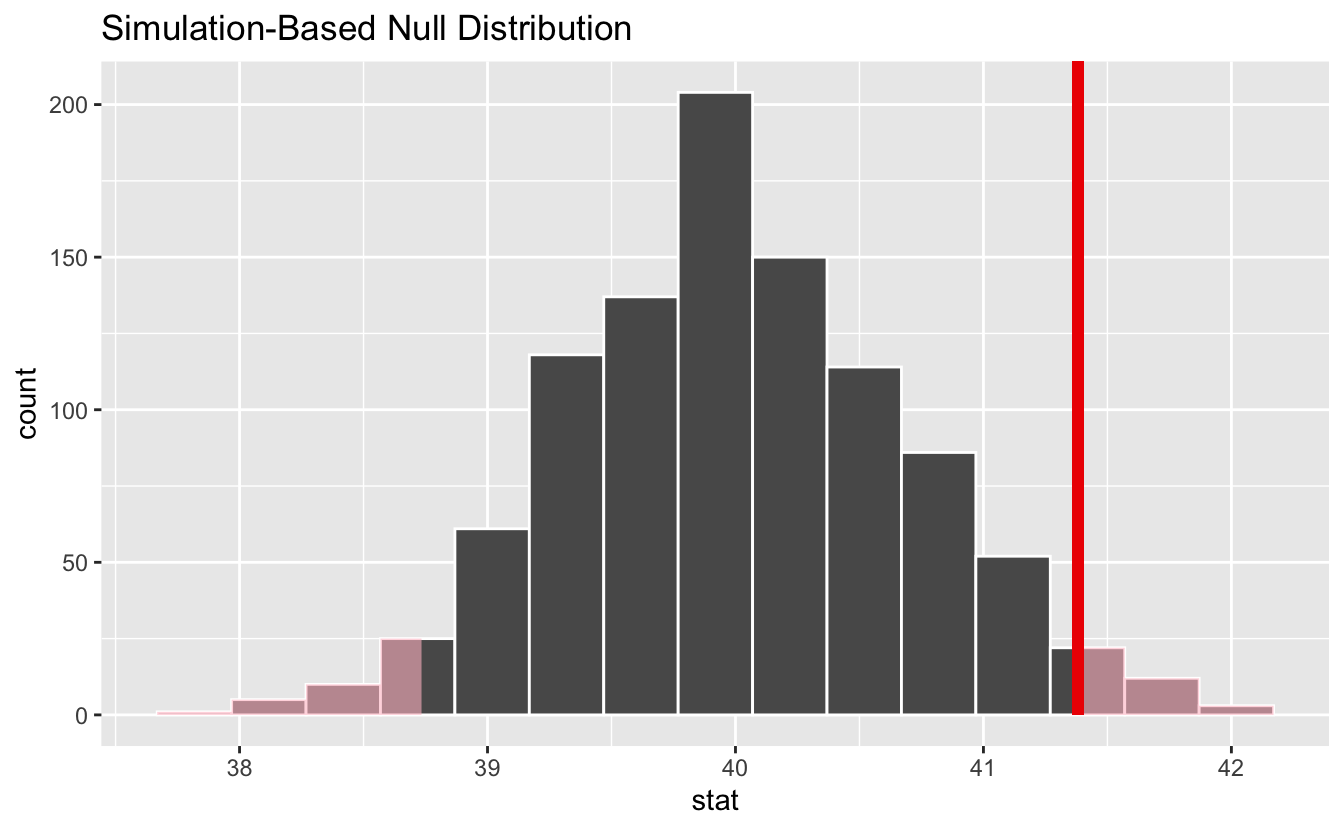
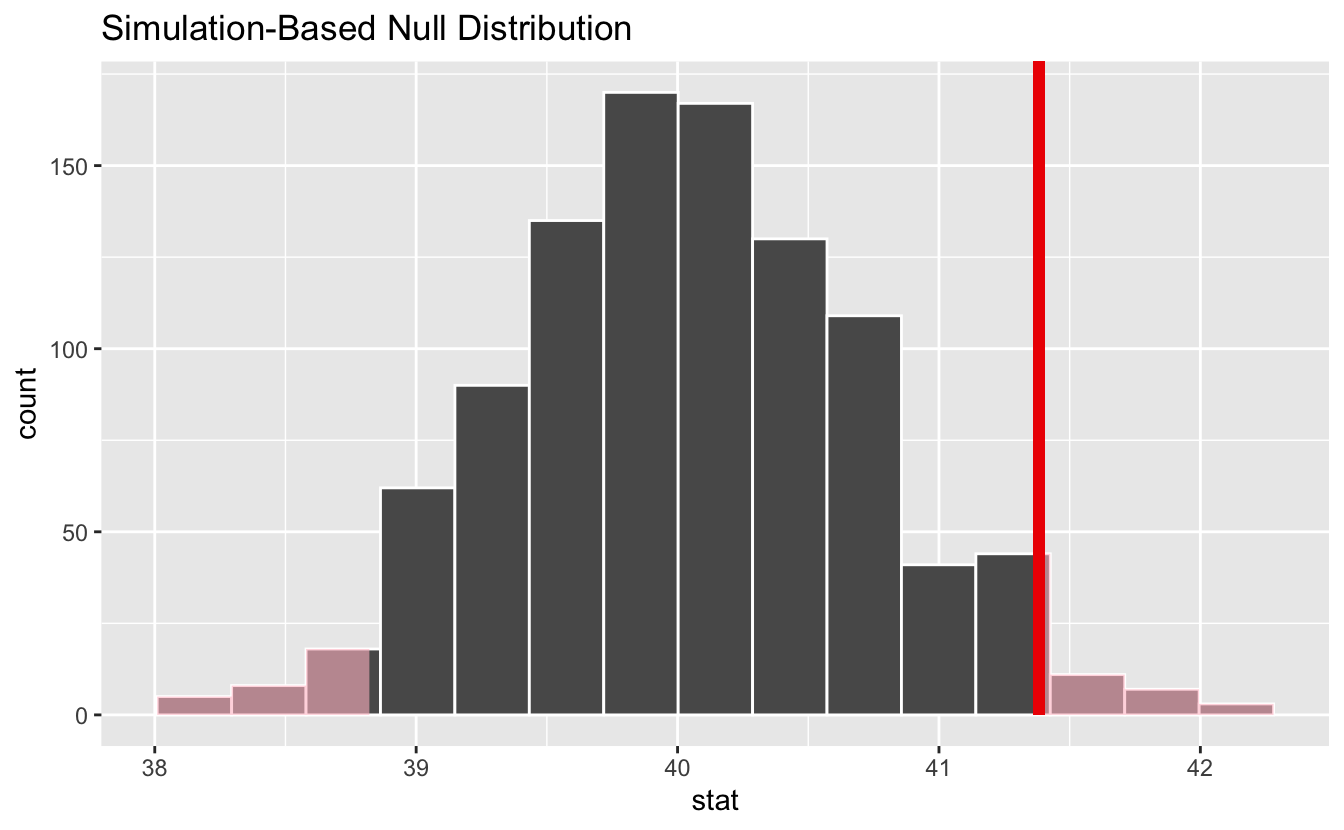
bump date

diff --git a/content/blog/infer-1-0-0/index.md b/content/blog/infer-1-0-0/index.md
@@ -3,7 +3,7 @@ output: hugodown::hugo_document
 
 slug: infer-1-0-0
 title: infer 1.0.0
-date: 2021-07-19
+date: 2021-08-16
 author: Simon Couch
 description: >
     The first major release of infer, a package implementing a unified approach
@@ -15,7 +15,7 @@ photo:
 
 categories: [package] 
 tags: [tidymodels]
-rmd_hash: 0d6c02d7dff397f9
+rmd_hash: 0bc7ed31174026a7
 
 ---
 
@@ -282,16 +282,16 @@ Continuing on with our example above, about the average number of hours worked a
 <span class='c'>#&gt; <span style='color: #555555;'># Groups:   replicate [1,000]</span></span>
 <span class='c'>#&gt;    replicate hours</span>
 <span class='c'>#&gt;        <span style='color: #555555; font-style: italic;'>&lt;int&gt;</span> <span style='color: #555555; font-style: italic;'>&lt;dbl&gt;</span></span>
-<span class='c'>#&gt; <span style='color: #555555;'> 1</span>         1 42.6 </span>
-<span class='c'>#&gt; <span style='color: #555555;'> 2</span>         1 38.6 </span>
-<span class='c'>#&gt; <span style='color: #555555;'> 3</span>         1 26.6 </span>
-<span class='c'>#&gt; <span style='color: #555555;'> 4</span>         1 38.6 </span>
+<span class='c'>#&gt; <span style='color: #555555;'> 1</span>         1 48.6 </span>
+<span class='c'>#&gt; <span style='color: #555555;'> 2</span>         1 28.6 </span>
+<span class='c'>#&gt; <span style='color: #555555;'> 3</span>         1 18.6 </span>
+<span class='c'>#&gt; <span style='color: #555555;'> 4</span>         1 30.6 </span>
 <span class='c'>#&gt; <span style='color: #555555;'> 5</span>         1 38.6 </span>
-<span class='c'>#&gt; <span style='color: #555555;'> 6</span>         1  8.62</span>
-<span class='c'>#&gt; <span style='color: #555555;'> 7</span>         1 48.6 </span>
-<span class='c'>#&gt; <span style='color: #555555;'> 8</span>         1 46.6 </span>
-<span class='c'>#&gt; <span style='color: #555555;'> 9</span>         1 36.6 </span>
-<span class='c'>#&gt; <span style='color: #555555;'>10</span>         1 38.6 </span>
+<span class='c'>#&gt; <span style='color: #555555;'> 6</span>         1 16.6 </span>
+<span class='c'>#&gt; <span style='color: #555555;'> 7</span>         1 18.6 </span>
+<span class='c'>#&gt; <span style='color: #555555;'> 8</span>         1 20.6 </span>
+<span class='c'>#&gt; <span style='color: #555555;'> 9</span>         1  2.62</span>
+<span class='c'>#&gt; <span style='color: #555555;'>10</span>         1 28.6 </span>
 <span class='c'>#&gt; <span style='color: #555555;'># … with 499,990 more rows</span></span></code></pre>
 
 </div>
@@ -313,16 +313,16 @@ To generate a null distribution for the independence of two variables, we could 
 <span class='c'>#&gt; <span style='color: #555555;'># Groups:   replicate [1,000]</span></span>
 <span class='c'>#&gt;    partyid   age replicate</span>
 <span class='c'>#&gt;    <span style='color: #555555; font-style: italic;'>&lt;fct&gt;</span>   <span style='color: #555555; font-style: italic;'>&lt;dbl&gt;</span>     <span style='color: #555555; font-style: italic;'>&lt;int&gt;</span></span>
-<span class='c'>#&gt; <span style='color: #555555;'> 1</span> dem        36         1</span>
-<span class='c'>#&gt; <span style='color: #555555;'> 2</span> rep        34         1</span>
+<span class='c'>#&gt; <span style='color: #555555;'> 1</span> ind        36         1</span>
+<span class='c'>#&gt; <span style='color: #555555;'> 2</span> dem        34         1</span>
 <span class='c'>#&gt; <span style='color: #555555;'> 3</span> dem        24         1</span>
-<span class='c'>#&gt; <span style='color: #555555;'> 4</span> ind        42         1</span>
-<span class='c'>#&gt; <span style='color: #555555;'> 5</span> ind        31         1</span>
-<span class='c'>#&gt; <span style='color: #555555;'> 6</span> rep        32         1</span>
-<span class='c'>#&gt; <span style='color: #555555;'> 7</span> ind        48         1</span>
-<span class='c'>#&gt; <span style='color: #555555;'> 8</span> other      36         1</span>
-<span class='c'>#&gt; <span style='color: #555555;'> 9</span> dem        30         1</span>
-<span class='c'>#&gt; <span style='color: #555555;'>10</span> dem        33         1</span>
+<span class='c'>#&gt; <span style='color: #555555;'> 4</span> rep        42         1</span>
+<span class='c'>#&gt; <span style='color: #555555;'> 5</span> dem        31         1</span>
+<span class='c'>#&gt; <span style='color: #555555;'> 6</span> dem        32         1</span>
+<span class='c'>#&gt; <span style='color: #555555;'> 7</span> dem        48         1</span>
+<span class='c'>#&gt; <span style='color: #555555;'> 8</span> dem        36         1</span>
+<span class='c'>#&gt; <span style='color: #555555;'> 9</span> ind        30         1</span>
+<span class='c'>#&gt; <span style='color: #555555;'>10</span> ind        33         1</span>
 <span class='c'>#&gt; <span style='color: #555555;'># … with 499,990 more rows</span></span></code></pre>
 
 </div>
@@ -343,16 +343,16 @@ To generate a null distribution for the independence of two variables, we could 
 <span class='c'>#&gt; <span style='color: #555555;'># A tibble: 1,000 × 2</span></span>
 <span class='c'>#&gt;    replicate  stat</span>
 <span class='c'>#&gt;        <span style='color: #555555; font-style: italic;'>&lt;int&gt;</span> <span style='color: #555555; font-style: italic;'>&lt;dbl&gt;</span></span>
-<span class='c'>#&gt; <span style='color: #555555;'> 1</span>         1  39.2</span>
-<span class='c'>#&gt; <span style='color: #555555;'> 2</span>         2  40.0</span>
-<span class='c'>#&gt; <span style='color: #555555;'> 3</span>         3  39.9</span>
-<span class='c'>#&gt; <span style='color: #555555;'> 4</span>         4  40.4</span>
-<span class='c'>#&gt; <span style='color: #555555;'> 5</span>         5  40.0</span>
-<span class='c'>#&gt; <span style='color: #555555;'> 6</span>         6  39.6</span>
-<span class='c'>#&gt; <span style='color: #555555;'> 7</span>         7  39.4</span>
-<span class='c'>#&gt; <span style='color: #555555;'> 8</span>         8  39.8</span>
-<span class='c'>#&gt; <span style='color: #555555;'> 9</span>         9  41.2</span>
-<span class='c'>#&gt; <span style='color: #555555;'>10</span>        10  39.5</span>
+<span class='c'>#&gt; <span style='color: #555555;'> 1</span>         1  39.5</span>
+<span class='c'>#&gt; <span style='color: #555555;'> 2</span>         2  40.1</span>
+<span class='c'>#&gt; <span style='color: #555555;'> 3</span>         3  39.6</span>
+<span class='c'>#&gt; <span style='color: #555555;'> 4</span>         4  39.2</span>
+<span class='c'>#&gt; <span style='color: #555555;'> 5</span>         5  39.0</span>
+<span class='c'>#&gt; <span style='color: #555555;'> 6</span>         6  39.8</span>
+<span class='c'>#&gt; <span style='color: #555555;'> 7</span>         7  40.4</span>
+<span class='c'>#&gt; <span style='color: #555555;'> 8</span>         8  40.1</span>
+<span class='c'>#&gt; <span style='color: #555555;'> 9</span>         9  40.3</span>
+<span class='c'>#&gt; <span style='color: #555555;'>10</span>        10  40.5</span>
 <span class='c'>#&gt; <span style='color: #555555;'># … with 990 more rows</span></span></code></pre>
 
 </div>
@@ -430,11 +430,11 @@ Notice that infer has also shaded the regions of the null distribution that are 
 <span class='c'>#&gt; <span style='color: #555555;'># A tibble: 1 × 1</span></span>
 <span class='c'>#&gt;   p_value</span>
 <span class='c'>#&gt;     <span style='color: #555555; font-style: italic;'>&lt;dbl&gt;</span></span>
-<span class='c'>#&gt; <span style='color: #555555;'>1</span>   0.056</span></code></pre>
+<span class='c'>#&gt; <span style='color: #555555;'>1</span>   0.052</span></code></pre>
 
 </div>
 
-It looks like the p-value is 0.056, which is pretty small---if the true mean number of hours worked per week was actually 40, the probability of our sample mean being this far (1.382 hours) from 40 would be 0.056. This may or may not be statistically significantly different, depending on the significance level $\alpha$ you decided on *before* you ran this analysis. If you had set $\alpha = 0.05$, then this difference would be statistically significant, but if you had set $\alpha = 0.01$, then it would not be.
+It looks like the p-value is 0.052, which is pretty small---if the true mean number of hours worked per week was actually 40, the probability of our sample mean being this far (1.382 hours) from 40 would be 0.052. This may or may not be statistically significantly different, depending on the significance level $\alpha$ you decided on *before* you ran this analysis. If you had set $\alpha = 0.05$, then this difference would be statistically significant, but if you had set $\alpha = 0.01$, then it would not be.
 
 To get a confidence interval around our estimate, we can write:
 
@@ -449,7 +449,7 @@ To get a confidence interval around our estimate, we can write:
 <span class='c'>#&gt; <span style='color: #555555;'># A tibble: 1 × 2</span></span>
 <span class='c'>#&gt;   lower_ci upper_ci</span>
 <span class='c'>#&gt;      <span style='color: #555555; font-style: italic;'>&lt;dbl&gt;</span>    <span style='color: #555555; font-style: italic;'>&lt;dbl&gt;</span></span>
-<span class='c'>#&gt; <span style='color: #555555;'>1</span>     40.0     42.7</span></code></pre>
+<span class='c'>#&gt; <span style='color: #555555;'>1</span>     40.1     42.7</span></code></pre>
 
 </div>
 
@@ -498,16 +498,16 @@ If passed a [`generate()`](https://infer.tidymodels.org/reference/generate.html)
 <span class='c'>#&gt; <span style='color: #555555;'># Groups:   replicate [100]</span></span>
 <span class='c'>#&gt;    replicate term          estimate</span>
 <span class='c'>#&gt;        <span style='color: #555555; font-style: italic;'>&lt;int&gt;</span> <span style='color: #555555; font-style: italic;'>&lt;chr&gt;</span>            <span style='color: #555555; font-style: italic;'>&lt;dbl&gt;</span></span>
-<span class='c'>#&gt; <span style='color: #555555;'> 1</span>         1 intercept      40.6   </span>
-<span class='c'>#&gt; <span style='color: #555555;'> 2</span>         1 age             0.027<span style='text-decoration: underline;'>2</span></span>
-<span class='c'>#&gt; <span style='color: #555555;'> 3</span>         1 collegedegree  -<span style='color: #BB0000;'>0.999</span> </span>
-<span class='c'>#&gt; <span style='color: #555555;'> 4</span>         2 intercept      38.5   </span>
-<span class='c'>#&gt; <span style='color: #555555;'> 5</span>         2 age             0.063<span style='text-decoration: underline;'>9</span></span>
-<span class='c'>#&gt; <span style='color: #555555;'> 6</span>         2 collegedegree   0.888 </span>
-<span class='c'>#&gt; <span style='color: #555555;'> 7</span>         3 intercept      39.6   </span>
-<span class='c'>#&gt; <span style='color: #555555;'> 8</span>         3 age             0.027<span style='text-decoration: underline;'>7</span></span>
-<span class='c'>#&gt; <span style='color: #555555;'> 9</span>         3 collegedegree   1.91  </span>
-<span class='c'>#&gt; <span style='color: #555555;'>10</span>         4 intercept      41.9   </span>
+<span class='c'>#&gt; <span style='color: #555555;'> 1</span>         1 intercept     39.7    </span>
+<span class='c'>#&gt; <span style='color: #555555;'> 2</span>         1 age            0.046<span style='text-decoration: underline;'>8</span> </span>
+<span class='c'>#&gt; <span style='color: #555555;'> 3</span>         1 collegedegree -<span style='color: #BB0000;'>0.480</span>  </span>
+<span class='c'>#&gt; <span style='color: #555555;'> 4</span>         2 intercept     41.6    </span>
+<span class='c'>#&gt; <span style='color: #555555;'> 5</span>         2 age           -<span style='color: #BB0000;'>0.001</span><span style='color: #BB0000; text-decoration: underline;'>58</span></span>
+<span class='c'>#&gt; <span style='color: #555555;'> 6</span>         2 collegedegree -<span style='color: #BB0000;'>0.584</span>  </span>
+<span class='c'>#&gt; <span style='color: #555555;'> 7</span>         3 intercept     40.9    </span>
+<span class='c'>#&gt; <span style='color: #555555;'> 8</span>         3 age            0.015<span style='text-decoration: underline;'>8</span> </span>
+<span class='c'>#&gt; <span style='color: #555555;'> 9</span>         3 collegedegree -<span style='color: #BB0000;'>0.513</span>  </span>
+<span class='c'>#&gt; <span style='color: #555555;'>10</span>         4 intercept     42.4    </span>
 <span class='c'>#&gt; <span style='color: #555555;'># … with 290 more rows</span></span></code></pre>
 
 </div>
@@ -525,16 +525,16 @@ If `type = "permute"`, a set of unquoted column names in the data to permute (in
 <span class='c'>#&gt; <span style='color: #555555;'># Groups:   replicate [100]</span></span>
 <span class='c'>#&gt;    replicate term          estimate</span>
 <span class='c'>#&gt;        <span style='color: #555555; font-style: italic;'>&lt;int&gt;</span> <span style='color: #555555; font-style: italic;'>&lt;chr&gt;</span>            <span style='color: #555555; font-style: italic;'>&lt;dbl&gt;</span></span>
-<span class='c'>#&gt; <span style='color: #555555;'> 1</span>         1 intercept      40.1   </span>
-<span class='c'>#&gt; <span style='color: #555555;'> 2</span>         1 age             0.023<span style='text-decoration: underline;'>7</span></span>
-<span class='c'>#&gt; <span style='color: #555555;'> 3</span>         1 collegedegree   1.08  </span>
+<span class='c'>#&gt; <span style='color: #555555;'> 1</span>         1 intercept      42.1   </span>
+<span class='c'>#&gt; <span style='color: #555555;'> 2</span>         1 age            -<span style='color: #BB0000;'>0.026</span><span style='color: #BB0000; text-decoration: underline;'>4</span></span>
+<span class='c'>#&gt; <span style='color: #555555;'> 3</span>         1 collegedegree   0.893 </span>
 <span class='c'>#&gt; <span style='color: #555555;'> 4</span>         2 intercept      42.4   </span>
-<span class='c'>#&gt; <span style='color: #555555;'> 5</span>         2 age            -<span style='color: #BB0000;'>0.028</span><span style='color: #BB0000; text-decoration: underline;'>3</span></span>
-<span class='c'>#&gt; <span style='color: #555555;'> 6</span>         2 collegedegree   0.305 </span>
-<span class='c'>#&gt; <span style='color: #555555;'> 7</span>         3 intercept      40.8   </span>
-<span class='c'>#&gt; <span style='color: #555555;'> 8</span>         3 age             0.025<span style='text-decoration: underline;'>3</span></span>
-<span class='c'>#&gt; <span style='color: #555555;'> 9</span>         3 collegedegree  -<span style='color: #BB0000;'>1.37</span>  </span>
-<span class='c'>#&gt; <span style='color: #555555;'>10</span>         4 intercept      36.6   </span>
+<span class='c'>#&gt; <span style='color: #555555;'> 5</span>         2 age            -<span style='color: #BB0000;'>0.054</span><span style='color: #BB0000; text-decoration: underline;'>6</span></span>
+<span class='c'>#&gt; <span style='color: #555555;'> 6</span>         2 collegedegree   3.39  </span>
+<span class='c'>#&gt; <span style='color: #555555;'> 7</span>         3 intercept      40.3   </span>
+<span class='c'>#&gt; <span style='color: #555555;'> 8</span>         3 age             0.010<span style='text-decoration: underline;'>2</span></span>
+<span class='c'>#&gt; <span style='color: #555555;'> 9</span>         3 collegedegree   1.92  </span>
+<span class='c'>#&gt; <span style='color: #555555;'>10</span>         4 intercept      41.3   </span>
 <span class='c'>#&gt; <span style='color: #555555;'># … with 290 more rows</span></span></code></pre>
 
 </div>
